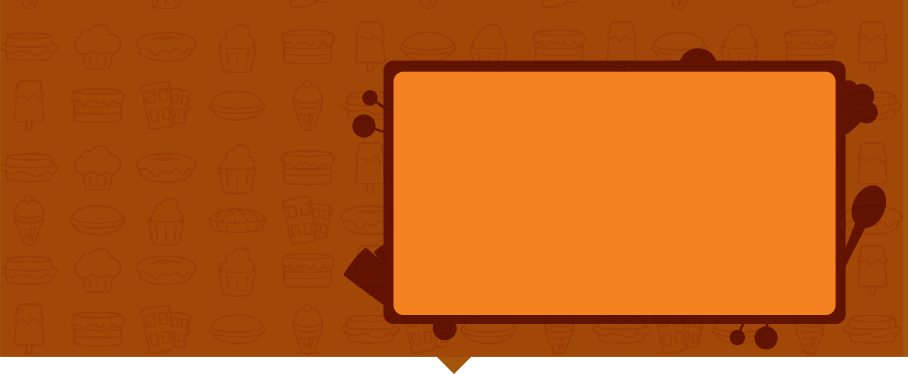
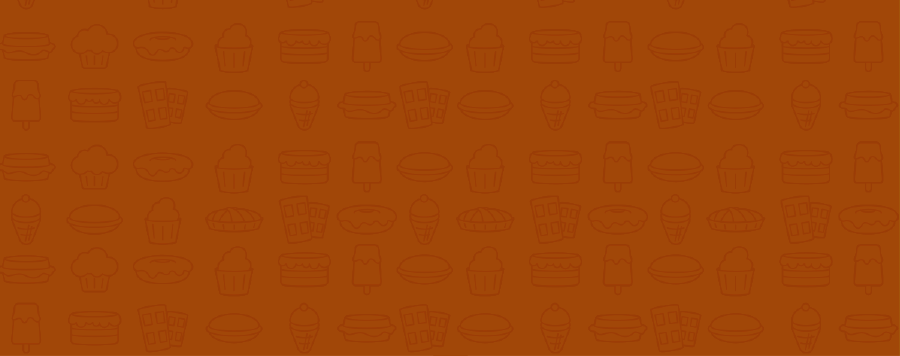
Cambio de marcos y fondos de las secciones de direccion y masas revisar Andre diseno

diff --git a/css/style.css b/css/style.css
@@ -59,7 +59,7 @@ input{
 
 .fondo-tipos-masas{
    background: url("../images/marco_tiposdemasa.png") no-repeat center top;
-   //background-size: 100%;
+   background-size: 60%%;
 }
 .margenes-marco{
   padding: 0 160px 60px;
@@ -96,6 +96,9 @@ input{
 }
 .content-blog{
   padding-top: 120px;
+  background: url("../images/marco_blog.png") no-repeat center 60px;
+  //background-size: 100%;
+
 }
 .content-item {
    font-size: 15px;
@@ -120,8 +123,8 @@ input{
 
 }
 .fondo-direccion{
-   background: url("../images/fondo_blog.png") no-repeat;
-   background-size: 100%;
+   background: url("../images/fondo_blog.png");
+   //background-size: 100%;
    color: #fff;
    font-size: 17pt;
    font-family: "HelveticaNeue-Light", Arial;
